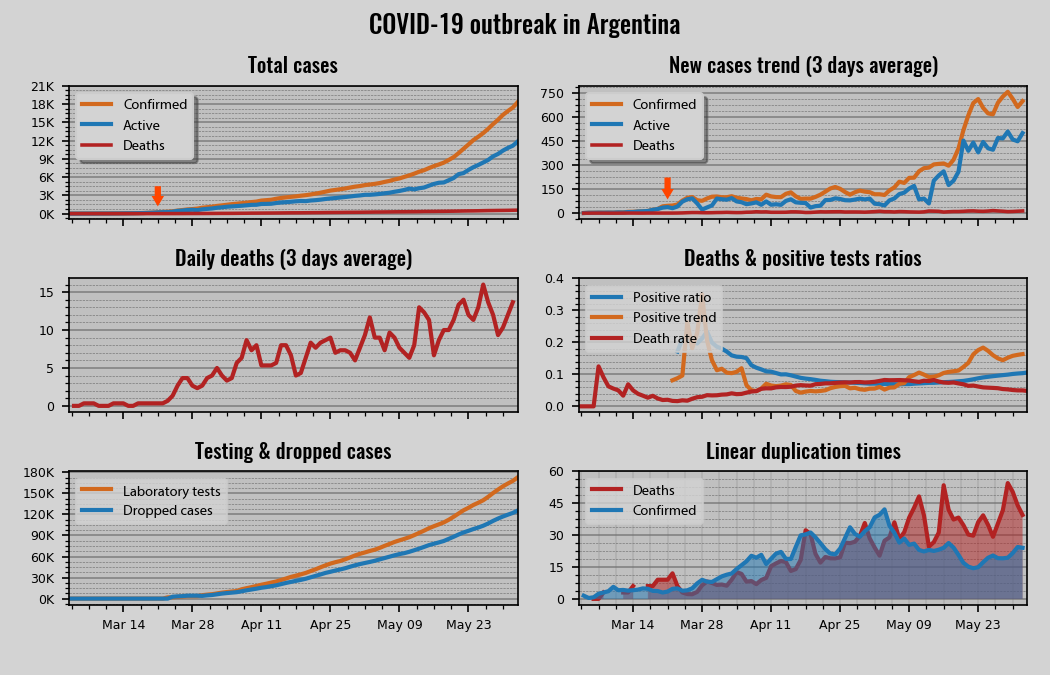
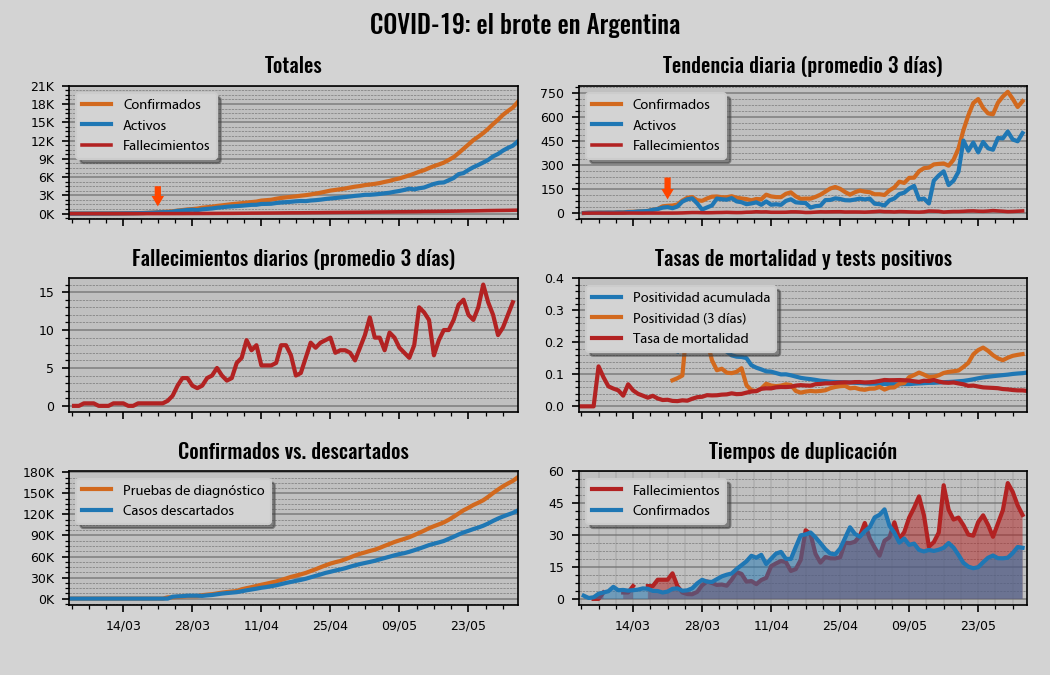
03-06-2020
Improving COVID-19_Ar_Analysis.py code...

diff --git a/COVID-19_Ar_Analysis.py b/COVID-19_Ar_Analysis.py
@@ -18,7 +18,7 @@ print("Loading data...", end="\n")
 
 #Selecting regions to study in detail...
 #Note that the first one will be used as reference to decide periods of time in some charts...
-regions = ["CABA", "BUENOS AIRES", "CHACO", "SANTA FE", "CORDOBA"]
+#regions = ["CABA", "BUENOS AIRES", "CHACO", "SANTA FE", "CORDOBA"]
 regions = ["CABA", "BUENOS AIRES", "CHACO"]
 #regions = ["NEUQUEN", "MENDOZA", "LA RIOJA", "ENTRE RIOS", "SANTA FE", "SAN JUAN", "CHUBUT"]
 
@@ -52,7 +52,7 @@ weeklyAnalysisAC = False #Decide if you want to plot week day data of notified c
 plotScale = "linear"
 
 #Deciding language for titles and tags...
-lg = 0 # 0 for english, 1 for spanish
+lg = 1 # 0 for english, 1 for spanish
 
 #Variables to store filenames and other strings...
 fileNamePrefix = "Argentina_COVID19_"
@@ -63,7 +63,8 @@ fileNames = ["00_Confirmed.csv", "01_Active.csv", "02_Deaths.csv", "03_Recovered
 				"17_PositiveTestsRatio.csv", "18_PositiveTestsRatio3dAv.csv", "19_CumulativePositiveTestsRatio.csv",
 				"20_DuplicationTimes.csv", "21_DuplicationTimes3dAv.csv", "22_DeathDuplicationTimes.csv",
 				"23_DeathDuplicationTimes3dAv.csv", "24_NewDropped.csv", "25_NewDropped3dAv.csv",
-				"26_NewConfirmed5dAv.csv", "27_Newdeaths5dAv.csv"]				
+				"26_NewConfirmed5dAv.csv", "27_ActiveVariation5dAv.csv", "28_Newdeaths5dAv.csv", "29_NewRecovered5dAv.csv",
+				"30_NewTested5dAv.csv", "31_NewDropped5dAv.csv"]				
 dataTitles = ["Confirmed cases", "Casos confirmados", "Active cases", "Casos activos", "Deaths", "Fallecimientos", 
 				"Recovered patients", "Altas", "Laboratory Tests", "Tests", "Dropped cases", "Casos descartados",
 				"Death rate", "Tasa de mortalidad", "Daily confirmed cases", "Casos diarios", "New confirmed cases trend",
@@ -78,7 +79,10 @@ dataTitles = ["Confirmed cases", "Casos confirmados", "Active cases", "Casos act
 				"Duplicación de fallecimientos (lineal)", "Deahts duplication times trend",
 				"Duplicación de fallecimientos (3 días)", "Daily dropped cases", "Casos descartados diariamente",
 				"Daily dropped cases trend", "Casos descartados diariamente (3 días)", "New confirmed cases trend (5 days)",
-				"Casos diarios (5 días)", "New deaths trend (5 days)", "Fallecimientos diarios (5 días)"]
+				"Casos diarios (5 días)", "Active cases variation trend (5 days)", "Evolución de casos activos (5 días)",
+				"New deaths trend (5 days)", "Fallecimientos diarios (5 días)", "New recovered trend (5 days)",
+				"Altas diarias (5 días)", "Daily tests trend (5 days)", "Tests diarios (5 días)",
+				"Daily dropped cases trend (5 days)", "Casos descartados diariamente (5 días)"]
 plotTitles = ["COVID-19 outbreak in Argentina", "COVID-19: el brote en Argentina", "Total cases", "Totales",
 				"New cases trend (3 days average)", "Tendencia diaria (promedio 3 días)", "Deaths", "Fallecimientos",
 				"Daily deaths (3 days average)", "Fallecimientos diarios (promedio 3 días)", "Deaths & positive tests ratios",
@@ -99,13 +103,17 @@ chartPath = "Argentina_Data/actual_charts/"
 #Some styling...
 defaultFont = "Oswald" #Change this if you don't like it or is not available in your system
 legendFont = "Myriad Pro" #Change this to edit legends' font 
-colorlist = ["chocolate", "tab:blue", "firebrick", "tab:green"] #Default colors for data
+colorlist = ["chocolate", "tab:blue", "firebrick", "tab:green", "rebeccapurple", "tab:pink", "olivedrab",
+				"crimson", "darkcyan", "aqua", "dodgerblue", "palegreen", "seagreen", "limegreen", "indianred",
+				"slategrey", "royalblue", "navy", "slateblue", "goldenrod", "greenyellow", "darkturquoise",
+				"coral"] #Default colors for data
 backgroundPlot = "silver" #Default background color for charts
 backgroundFigure = "lightgrey" #Default background color for figures
 majorGridColor = "dimgrey" #Default colors for grids...
 minorGridColor = "dimgray"
 alphaMGC = 0.7
 alphamGC = 0.9
+imageResolution = 150
 
 #Loading data...
 databases = []
@@ -145,40 +153,42 @@ def savePlot(csvName, figure):
 	plt.savefig(chartPath + chartName[0] + ".png", facecolor=figure.get_facecolor())
 
 def plotbyDate(regions, datatype, xtitle, ytitle, markQ, ticksInterval):
-	figure(num=None, figsize=(8, 4), dpi=150, facecolor='w', edgecolor='k')
+	figure = plt.figure(num=None, figsize=(8, 4), dpi=imageResolution, facecolor=backgroundFigure, edgecolor='k')
 	#Saving y values for markQ...
 	yquarantine = []
 	x = quarantineIndex
 	#Plotting selected data...
 	for i in range(len(regions)):
-		databases[datatype][startDate:][regions[i]].plot(kind='line', label=regions[i], linewidth=2.5)
+		databases[datatype][startDate:][regions[i]].plot(kind='line', label=regions[i], color=colorlist[i], linewidth=2.5)
 		yquarantine.append(databases[datatype].loc[quarantineStart, regions[i]])
 	s = plt.ylim()
 	if markQ == True:
 		y = max(yquarantine) #Drawing a mark on quarantineStartDate
 		markQuarantine("Social\nisolation", s[1]/25, s[1]/5, 8, quarantineStart, y, 5, 9, 7)
 	#Setting up titles	
-	plt.title("COVID-19: " + dataTitles[2*(datatype)+lg] + tConector[lg] + startDateTime.strftime(dateFormatString))
+	plt.title("COVID-19: " + dataTitles[2*(datatype)+lg] + tConector[lg] + startDateTime.strftime(dateFormatString), fontname=defaultFont)
 	plt.yscale(plotScale)
-	plt.ylabel(ytitle)
-	plt.xlabel(xtitle)
+	plt.ylabel(ytitle, fontname=legendFont)
+	plt.xlabel(xtitle, fontname=legendFont)
 	#Setting up grid...
 	plt.grid(which='both', axis='both')
 	plt.yticks(nu.arange(0, s[1]*1.2, ticksInterval))
 	plt.minorticks_on()
-	plt.grid(True, "major", "y", ls="-", lw=0.8, c="dimgray", alpha=0.5)
-	plt.grid(True, "minor", "y", ls="--", lw=0.3, c="black", alpha=0.5)
-	plt.grid(True, "major", "x", ls="-", lw=0.8, c="dimgray", alpha=0.5)
-	plt.grid(True, "minor", "x", ls="--", lw=0.3, c="black", alpha=0.5)
+	plt.grid(True, "major", "y", ls="-", lw=0.8, c=majorGridColor, alpha=alphaMGC)
+	plt.grid(True, "minor", "y", ls="--", lw=0.3, c=minorGridColor, alpha=alphamGC)
+	plt.grid(True, "major", "x", ls="-", lw=0.8, c=majorGridColor, alpha=alphaMGC)
+	plt.grid(True, "minor", "x", ls="--", lw=0.3, c=minorGridColor, alpha=alphamGC)
 	#Setting date format...
 	plt.gca().xaxis.set_major_locator(mdates.WeekdayLocator(interval = 1))
 	plt.gca().xaxis.set_major_formatter(dateFormat)
+	plt.gca().set_facecolor(backgroundPlot)
 	#Setting axis labels font and legend
 	plt.xticks(fontsize=6)
 	plt.yticks(fontsize=6)
 	if len(regions) > 1:
-		plt.legend(loc=2, prop={'size': 8})
+		plt.legend(loc=2, shadow = True, facecolor = backgroundFigure, prop={'family' : legendFont, 'size' : 7})
 	plt.tight_layout()
+	savePlot(fileNames[datatype], figure)
 	plt.show()
 
 #Function to look for certain case count in each region
@@ -195,39 +205,41 @@ startPoints = regionsStartPoints(regions, dataGuide)
 
 #Function to plot cases for regions since first case
 def plotbyOutbreak(regions, datatype, dataguide, startpoints, xtitle, ytitle, ticksInterval):
-	figure(num=None, figsize=(8, 4), dpi=150, facecolor='w', edgecolor='k')
+	figure = plt.figure(num=None, figsize=(8, 4), dpi=imageResolution, facecolor=backgroundFigure, edgecolor='k')
 	period = 0
 	#Plotting selected data...
 	for i in range(len(regions)):
 		datalist = databases[datatype][startPoints[i]:][regions[i]].values.tolist()
 		if i == 0:
 			period = len(datalist)
-		plt.plot(datalist[0:period-1], label=regions[i], linewidth=2.5)
+		plt.plot(datalist[0:period-1], label=regions[i], linewidth=2.5, color=colorlist[i])
 	#Setting up titles
-	plt.title("COVID-19: " + dataTitles[2*datatype+lg] + tConector[2 + lg] + str(caseCount) + " " + dataTitles[2*dataguide+lg])
+	plt.title("COVID-19: " + dataTitles[2*datatype+lg] + tConector[2 + lg] + str(caseCount) + " " + dataTitles[2*dataguide+lg], fontname=defaultFont)
 	plt.yscale(plotScale)
-	plt.ylabel(ytitle)
-	plt.xlabel(xtitle)
+	plt.ylabel(ytitle, fontname=legendFont)
+	plt.xlabel(xtitle, fontname=legendFont)
 	#Setting up grid...
 	plt.grid(which='both', axis='both')
 	s = plt.ylim()
 	d = plt.xlim()
 	plt.yticks(nu.arange(0, s[1]*1.2, ticksInterval))
 	plt.minorticks_on()
-	plt.grid(True, "major", "y", ls="-", lw=0.8, c="dimgray", alpha=0.5)
-	plt.grid(True, "minor", "y", ls="--", lw=0.3, c="black", alpha=0.5)
-	plt.grid(True, "major", "x", ls="-", lw=0.8, c="dimgray", alpha=0.5)
-	plt.grid(True, "minor", "x", ls="--", lw=0.3, c="black", alpha=0.5)
+	plt.grid(True, "major", "y", ls="-", lw=0.8, c=majorGridColor, alpha=alphaMGC)
+	plt.grid(True, "minor", "y", ls="--", lw=0.3, c=minorGridColor, alpha=alphamGC)
+	plt.grid(True, "major", "x", ls="-", lw=0.8, c=majorGridColor, alpha=alphaMGC)
+	plt.grid(True, "minor", "x", ls="--", lw=0.3, c=minorGridColor, alpha=alphamGC)
 	#Setting axis labels font and legend
 	plt.xticks(fontsize=6)
 	plt.yticks(fontsize=6)
+	plt.gca().set_facecolor(backgroundPlot)
 	if len(regions) > 1:
-		plt.legend(loc=2, prop={'size': 8})
+		plt.legend(loc=2, shadow = True, facecolor = backgroundFigure, prop={'family' : legendFont, 'size' : 7})
 	plt.tight_layout()
+	savePlot(fileNames[datatype], figure)
 	plt.show()
 
 def plotAllCountryData():
-	figure = plt.figure(num=None, figsize=(7, 4.5), dpi=150, facecolor=backgroundFigure, edgecolor='k')
+	figure = plt.figure(num=None, figsize=(7, 4.5), dpi=imageResolution, facecolor=backgroundFigure, edgecolor='k')
 	figure.suptitle(plotTitles[0+lg], fontsize=12, fontname=defaultFont)
 	#Setting up totals chart...
 	plt.subplot2grid((3, 2), (0, 0))
@@ -313,7 +325,7 @@ def plotAllCountryData():
 	ratios = databases[19][startDate:]["TOTAL"].plot(kind="line", linewidth=2.0, label=shortLabels[2*5+lg], color=colorlist[1])
 	ratios = databases[18][startDate:]["TOTAL"].plot(kind="line", linewidth=2.0, label=shortLabels[2*4+lg], color=colorlist[0])
 	ratios = databases[6][startDate:]["TOTAL"].plot(kind="line", linewidth=2.0, label=shortLabels[2*3+lg], color=colorlist[2])
-	ratios.legend(loc=2, shadow = False, facecolor = backgroundFigure, prop={'family' : legendFont, 'size' : 7})
+	ratios.legend(loc=2, shadow = True, facecolor = backgroundFigure, prop={'family' : legendFont, 'size' : 7})
 	ratios.set_title(plotTitles[2*5+lg], fontsize=10, fontname=defaultFont)
 	plt.yscale(plotScale)
 	ylimits = plt.ylim()
@@ -333,7 +345,7 @@ def plotAllCountryData():
 	plt.subplot2grid((3, 2), (2, 0))
 	tests = databases[4][startDate:]["TOTAL"].plot(kind="line", linewidth=2.0, label=shortLabels[2*6+lg], color=colorlist[0])
 	tests = databases[5][startDate:]["TOTAL"].plot(kind="line", linewidth=2.0, label=shortLabels[2*7+lg], color=colorlist[1])
-	tests.legend(loc=2, shadow = False, facecolor = backgroundFigure, prop={'family' : legendFont, 'size' : 7})
+	tests.legend(loc=2, shadow = True, facecolor = backgroundFigure, prop={'family' : legendFont, 'size' : 7})
 	tests.set_title(plotTitles[2*6+lg], fontsize=10, fontname=defaultFont)
 	plt.yscale(plotScale)
 	ylimits = plt.ylim()
@@ -356,7 +368,7 @@ def plotAllCountryData():
 	plt.subplot2grid((3, 2), (2, 1))
 	duplication = databases[23][startDate:]["TOTAL"].plot(kind="line", linewidth=2.0, label=shortLabels[2*2+lg], color=colorlist[2], zorder=2)
 	duplication = databases[21][startDate:]["TOTAL"].plot(kind="line", linewidth=2.0, label=shortLabels[2*0+lg], color=colorlist[1], zorder=3)
-	duplication.legend(loc=2, shadow = False, facecolor = backgroundFigure, prop={'family' : legendFont, 'size' : 7})
+	duplication.legend(loc=2, shadow = True, facecolor = backgroundFigure, prop={'family' : legendFont, 'size' : 7})
 	plt.fill_between(databases[23][startDate:].index.values, databases[23][startDate:]["TOTAL"], 0, facecolor=colorlist[2],
 					alpha=0.5, zorder=2)
 	plt.fill_between(databases[21][startDate:].index.values, databases[21][startDate:]["TOTAL"], 0, facecolor=colorlist[1],
@@ -382,7 +394,7 @@ def plotAllCountryData():
 	plt.show()
 	
 def plotAllCountryDT():
-	figure = plt.figure(num=None, figsize=(7, 4), dpi=150, facecolor='w', edgecolor='k')
+	figure = plt.figure(num=None, figsize=(7, 4), dpi=imageResolution, facecolor=backgroundFigure, edgecolor='k')
 	#Setting up first subplot...
 	plt.subplot2grid((2, 1), (0, 0))
 	#Plotting the data...
@@ -487,7 +499,7 @@ def getDaysTags(dayTags, offset):
 	return daylist
 
 def plotWeeklyCases(regionindex, datatype, region):
-	figure = plt.figure(num=None, figsize=(5, 4), dpi=150, facecolor='w', edgecolor='k')
+	figure = plt.figure(num=None, figsize=(5, 4), dpi=imageResolution, facecolor='w', edgecolor='k')
 	figure.suptitle(region + ": Weeks analysis (" + dataTitles[datatype] + " since " + startDate + ")", fontsize=12)
 	weeklyCases = getWeeklyCases(regionindex, datatype)
 	plt.subplot2grid((2, 1), (0, 0))
@@ -559,7 +571,7 @@ if newDeathsTrend == True:
 	plotbyDate(regions, 12, xTitles[0+lg], yTitles[0+lg], True, 5)
 if newDeathsTrend5 == True:
 	print("Plotting daily deahts trend...", end="\n")
-	plotbyDate(regions, 27, xTitles[0+lg], yTitles[0+lg], True, 5)
+	plotbyDate(regions, 28, xTitles[0+lg], yTitles[0+lg], True, 5)
 if deathRate == True:
 	print("Plotting death rate evolution...", end="\n")
 	plotbyDate(regions, 6, xTitles[0+lg], yTitles[0+lg], False, 0.02)
